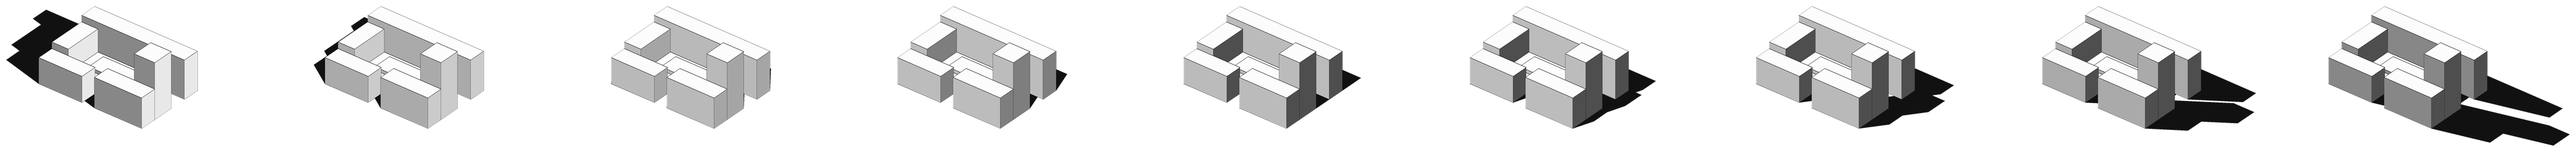
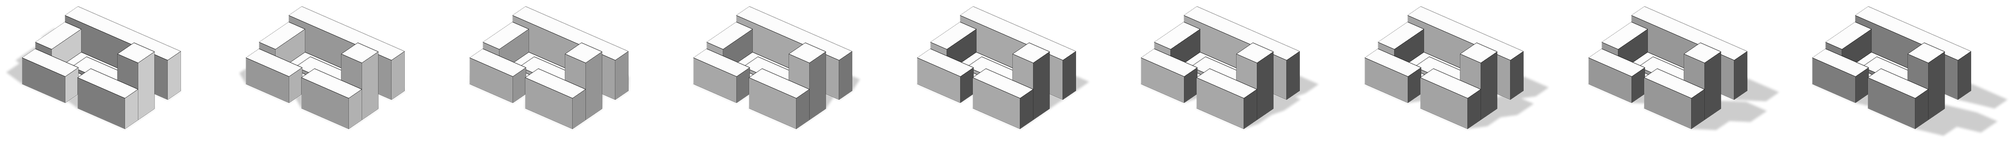
Axon grid: short soft shadows, faceted stacked pods for The Ark

Changed region(s): [[0.341, 0.119, 1.0, 0.9517], [0.0, 0.0892, 0.31, 0.8922]]

diff --git a/zh/index.html b/zh/index.html
@@ -25,42 +25,42 @@
 
 <section class="board" style="--cols:8">
   <div class="cell e"><span class="ref">A1</span></div>
-  <a class="cell p" href="798-artist-district.html"><span class="ref">B1</span><span class="lbl">798 艺术家生活集<span class="yr">2018</span></span><span class="ax" style="--fw:636;--fh:336;--ox:324.9;--oy:145.75;--ow:300.0;--oh:267.5;--n:9;background-image:url(../img/axon/798-artist-district.png)"></span><img class="sk" src="../img/798-artist-district/icon_00-s.jpg" alt="" loading="lazy"></a>
+  <a class="cell p" href="798-artist-district.html"><span class="ref">B1</span><span class="lbl">798 艺术家生活集<span class="yr">2018</span></span><span class="ax" style="--fw:380;--fh:313;--ox:209.8;--oy:145.75;--ow:300.0;--oh:267.5;--n:9;background-image:url(../img/axon/798-artist-district.png)"></span><img class="sk" src="../img/798-artist-district/icon_00-s.jpg" alt="" loading="lazy"></a>
   <div class="cell e"><span class="ref">C1</span></div>
   <div class="cell e"><span class="ref">D1</span></div>
   <div class="cell e"><span class="ref">E1</span></div>
-  <a class="cell p" href="downstairs-bazaar.html"><span class="ref">F1</span><span class="lbl">楼下生活集<span class="yr">2020</span></span><span class="ax" style="--fw:541;--fh:289;--ox:223.3;--oy:128.3;--ow:300.0;--oh:232.6;--n:9;background-image:url(../img/axon/downstairs-bazaar.png)"></span><img class="sk" src="../img/downstairs-bazaar/icon_00-s.jpg" alt="" loading="lazy"></a>
+  <a class="cell p" href="downstairs-bazaar.html"><span class="ref">F1</span><span class="lbl">楼下生活集<span class="yr">2020</span></span><span class="ax" style="--fw:423;--fh:269;--ox:191.7;--oy:128.3;--ow:300.0;--oh:232.6;--n:9;background-image:url(../img/axon/downstairs-bazaar.png)"></span><img class="sk" src="../img/downstairs-bazaar/icon_00-s.jpg" alt="" loading="lazy"></a>
   <div class="cell e"><span class="ref">G1</span></div>
   <a class="cell p t nopic" href="laminated-coliseum.html"><span class="ref">H1</span><span class="lbl">场所折叠<span class="yr">2023</span></span></a>
   <a class="cell p t nopic" href="korea-commercial-i.html"><span class="ref">A2</span><span class="lbl">韩国商业项目一<span class="yr">2022</span></span></a>
   <div class="cell e"><span class="ref">B2</span></div>
   <div class="cell e"><span class="ref">C2</span></div>
-  <a class="cell p" href="seedlings.html"><span class="ref">D2</span><span class="lbl">新绿幼儿园<span class="yr">2018</span></span><span class="ax" style="--fw:397;--fh:225;--ox:194.2;--oy:108.95;--ow:300.0;--oh:193.9;--n:9;background-image:url(../img/axon/seedlings.png)"></span><img class="sk" src="../img/seedlings/icon_00-s.jpg" alt="" loading="lazy"></a>
+  <a class="cell p" href="seedlings.html"><span class="ref">D2</span><span class="lbl">新绿幼儿园<span class="yr">2018</span></span><span class="ax" style="--fw:359;--fh:222;--ox:177.6;--oy:108.95;--ow:300.0;--oh:193.9;--n:9;background-image:url(../img/axon/seedlings.png)"></span><img class="sk" src="../img/seedlings/icon_00-s.jpg" alt="" loading="lazy"></a>
   <div class="cell e"><span class="ref">E2</span></div>
   <div class="cell e"><span class="ref">F2</span></div>
   <div class="cell e"><span class="ref">G2</span></div>
-  <a class="cell p" href="river-lantern.html"><span class="ref">H2</span><span class="lbl">河灯<span class="yr">2020</span></span><span class="ax" style="--fw:344;--fh:188;--ox:169.8;--oy:92.4;--ow:300.0;--oh:160.8;--n:9;background-image:url(../img/axon/river-lantern.png)"></span><img class="sk" src="../img/river-lantern/icon_00-s.jpg" alt="" loading="lazy"></a>
-  <a class="cell p" href="westfall-hillside-house.html"><span class="ref">A3</span><span class="lbl">西崖山地别墅<span class="yr">2025</span></span><span class="ax" style="--fw:589;--fh:316;--ox:197.1;--oy:158.0;--ow:300.0;--oh:292.0;--n:9;background-image:url(../img/axon/westfall-hillside-house.png)"></span><img class="sk" src="../img/westfall-hillside-house/icon_00-s.jpg" alt="" loading="lazy"></a>
+  <a class="cell p" href="river-lantern.html"><span class="ref">H2</span><span class="lbl">河灯<span class="yr">2020</span></span><span class="ax" style="--fw:334;--fh:186;--ox:165.8;--oy:92.4;--ow:300.0;--oh:160.8;--n:9;background-image:url(../img/axon/river-lantern.png)"></span><img class="sk" src="../img/river-lantern/icon_00-s.jpg" alt="" loading="lazy"></a>
+  <a class="cell p" href="westfall-hillside-house.html"><span class="ref">A3</span><span class="lbl">西崖山地别墅<span class="yr">2025</span></span><span class="ax" style="--fw:435;--fh:316;--ox:162.0;--oy:158.0;--ow:300.0;--oh:292.0;--n:9;background-image:url(../img/axon/westfall-hillside-house.png)"></span><img class="sk" src="../img/westfall-hillside-house/icon_00-s.jpg" alt="" loading="lazy"></a>
   <div class="cell e"><span class="ref">B3</span></div>
   <a class="cell p t nopic" href="roski-teaching-building.html"><span class="ref">C3</span><span class="lbl">南加大艺术学院教学楼<span class="yr">2021</span></span></a>
   <div class="cell e"><span class="ref">D3</span></div>
   <div class="cell e"><span class="ref">E3</span></div>
-  <a class="cell p" href="the-ark.html"><span class="ref">F3</span><span class="lbl">方舟<span class="yr">2019</span></span><span class="ax" style="--fw:523;--fh:313;--ox:261.9;--oy:139.0;--ow:300.0;--oh:254.0;--n:9;background-image:url(../img/axon/the-ark.png)"></span><img class="sk" src="../img/the-ark/icon_00-s.jpg" alt="" loading="lazy"></a>
+  <a class="cell p" href="the-ark.html"><span class="ref">F3</span><span class="lbl">方舟<span class="yr">2019</span></span><span class="ax" style="--fw:492;--fh:408;--ox:268.2;--oy:187.15;--ow:300.0;--oh:346.5;--n:9;background-image:url(../img/axon/the-ark.png)"></span><img class="sk" src="../img/the-ark/icon_00-s.jpg" alt="" loading="lazy"></a>
   <div class="cell e"><span class="ref">G3</span></div>
   <div class="cell e"><span class="ref">H3</span></div>
   <div class="cell e"><span class="ref">A4</span></div>
   <div class="cell e"><span class="ref">B4</span></div>
-  <a class="cell p" href="pku-marxism-school-building.html"><span class="ref">C4</span><span class="lbl">北京大学马克思主义学院教学楼<span class="yr">2019</span></span><span class="ax" style="--fw:858;--fh:590;--ox:354.6;--oy:276.25;--ow:300.0;--oh:511.5;--n:9;background-image:url(../img/axon/pku-marxism-school-building.png)"></span><img class="sk" src="../img/pku-teaching-building/icon_00-s.jpg" alt="" loading="lazy"></a>
+  <a class="cell p" href="pku-marxism-school-building.html"><span class="ref">C4</span><span class="lbl">北京大学马克思主义学院教学楼<span class="yr">2019</span></span><span class="ax" style="--fw:553;--fh:557;--ox:249.5;--oy:276.25;--ow:300.0;--oh:511.5;--n:9;background-image:url(../img/axon/pku-marxism-school-building.png)"></span><img class="sk" src="../img/pku-teaching-building/icon_00-s.jpg" alt="" loading="lazy"></a>
   <div class="cell e"><span class="ref">D4</span></div>
   <a class="cell p t nopic" href="san-vicente-adu.html"><span class="ref">E4</span><span class="lbl">圣维森特街 ADU<span class="yr">2024</span></span></a>
   <div class="cell e"><span class="ref">F4</span></div>
-  <a class="cell p" href="ashton-house-remodel.html"><span class="ref">G4</span><span class="lbl">阿什顿街住宅翻新<span class="yr">2025</span></span><span class="ax" style="--fw:658;--fh:328;--ox:240.8;--oy:126.55;--ow:300.0;--oh:229.1;--n:9;background-image:url(../img/axon/ashton-house-remodel.png)"></span><img class="sk" src="../img/ashton-house-remodel/icon_00-s.jpg" alt="" loading="lazy"></a>
+  <a class="cell p" href="ashton-house-remodel.html"><span class="ref">G4</span><span class="lbl">阿什顿街住宅翻新<span class="yr">2025</span></span><span class="ax" style="--fw:460;--fh:299;--ox:188.8;--oy:126.55;--ow:300.0;--oh:229.1;--n:9;background-image:url(../img/axon/ashton-house-remodel.png)"></span><img class="sk" src="../img/ashton-house-remodel/icon_00-s.jpg" alt="" loading="lazy"></a>
   <div class="cell e"><span class="ref">H4</span></div>
   <div class="cell e"><span class="ref">A5</span></div>
   <a class="cell p t nopic" href="korea-commercial-ii.html"><span class="ref">B5</span><span class="lbl">韩国商业项目二<span class="yr">2022</span></span></a>
   <div class="cell e"><span class="ref">C5</span></div>
   <div class="cell e"><span class="ref">D5</span></div>
-  <a class="cell p" href="beck-corner-apartment.html"><span class="ref">E5</span><span class="lbl">贝克街保障住房<span class="yr">2023–2025</span></span><span class="ax" style="--fw:597;--fh:350;--ox:247.2;--oy:152.35;--ow:300.0;--oh:280.7;--n:9;background-image:url(../img/axon/beck-corner-apartment.png)"></span><img class="sk" src="../img/beck-corner-apartment/icon_00-s.jpg" alt="" loading="lazy"></a>
+  <a class="cell p" href="beck-corner-apartment.html"><span class="ref">E5</span><span class="lbl">贝克街保障住房<span class="yr">2023–2025</span></span><span class="ax" style="--fw:456;--fh:327;--ox:203.3;--oy:152.35;--ow:300.0;--oh:280.7;--n:9;background-image:url(../img/axon/beck-corner-apartment.png)"></span><img class="sk" src="../img/beck-corner-apartment/icon_00-s.jpg" alt="" loading="lazy"></a>
   <div class="cell e"><span class="ref">F5</span></div>
   <div class="cell e"><span class="ref">G5</span></div>
   <a class="cell p t nopic" href="chadron-adu.html"><span class="ref">H5</span><span class="lbl">查德龙街多单元 ADU<span class="yr">2025</span></span></a>

diff --git a/index.html b/index.html
@@ -25,42 +25,42 @@
 
 <section class="board" style="--cols:8">
   <div class="cell e"><span class="ref">A1</span></div>
-  <a class="cell p" href="798-artist-district.html"><span class="ref">B1</span><span class="lbl">The Collage Community<span class="yr">2018</span></span><span class="ax" style="--fw:636;--fh:336;--ox:324.9;--oy:145.75;--ow:300.0;--oh:267.5;--n:9;background-image:url(img/axon/798-artist-district.png)"></span><img class="sk" src="img/798-artist-district/icon_00-s.jpg" alt="" loading="lazy"></a>
+  <a class="cell p" href="798-artist-district.html"><span class="ref">B1</span><span class="lbl">The Collage Community<span class="yr">2018</span></span><span class="ax" style="--fw:380;--fh:313;--ox:209.8;--oy:145.75;--ow:300.0;--oh:267.5;--n:9;background-image:url(img/axon/798-artist-district.png)"></span><img class="sk" src="img/798-artist-district/icon_00-s.jpg" alt="" loading="lazy"></a>
   <div class="cell e"><span class="ref">C1</span></div>
   <div class="cell e"><span class="ref">D1</span></div>
   <div class="cell e"><span class="ref">E1</span></div>
-  <a class="cell p" href="downstairs-bazaar.html"><span class="ref">F1</span><span class="lbl">Downstairs Bazaar<span class="yr">2020</span></span><span class="ax" style="--fw:541;--fh:289;--ox:223.3;--oy:128.3;--ow:300.0;--oh:232.6;--n:9;background-image:url(img/axon/downstairs-bazaar.png)"></span><img class="sk" src="img/downstairs-bazaar/icon_00-s.jpg" alt="" loading="lazy"></a>
+  <a class="cell p" href="downstairs-bazaar.html"><span class="ref">F1</span><span class="lbl">Downstairs Bazaar<span class="yr">2020</span></span><span class="ax" style="--fw:423;--fh:269;--ox:191.7;--oy:128.3;--ow:300.0;--oh:232.6;--n:9;background-image:url(img/axon/downstairs-bazaar.png)"></span><img class="sk" src="img/downstairs-bazaar/icon_00-s.jpg" alt="" loading="lazy"></a>
   <div class="cell e"><span class="ref">G1</span></div>
   <a class="cell p t nopic" href="laminated-coliseum.html"><span class="ref">H1</span><span class="lbl">Laminated Coliseum<span class="yr">2023</span></span></a>
   <a class="cell p t nopic" href="korea-commercial-i.html"><span class="ref">A2</span><span class="lbl">Korea Commercial Project I<span class="yr">2022</span></span></a>
   <div class="cell e"><span class="ref">B2</span></div>
   <div class="cell e"><span class="ref">C2</span></div>
-  <a class="cell p" href="seedlings.html"><span class="ref">D2</span><span class="lbl">Seedlings<span class="yr">2018</span></span><span class="ax" style="--fw:397;--fh:225;--ox:194.2;--oy:108.95;--ow:300.0;--oh:193.9;--n:9;background-image:url(img/axon/seedlings.png)"></span><img class="sk" src="img/seedlings/icon_00-s.jpg" alt="" loading="lazy"></a>
+  <a class="cell p" href="seedlings.html"><span class="ref">D2</span><span class="lbl">Seedlings<span class="yr">2018</span></span><span class="ax" style="--fw:359;--fh:222;--ox:177.6;--oy:108.95;--ow:300.0;--oh:193.9;--n:9;background-image:url(img/axon/seedlings.png)"></span><img class="sk" src="img/seedlings/icon_00-s.jpg" alt="" loading="lazy"></a>
   <div class="cell e"><span class="ref">E2</span></div>
   <div class="cell e"><span class="ref">F2</span></div>
   <div class="cell e"><span class="ref">G2</span></div>
-  <a class="cell p" href="river-lantern.html"><span class="ref">H2</span><span class="lbl">River Lantern<span class="yr">2020</span></span><span class="ax" style="--fw:344;--fh:188;--ox:169.8;--oy:92.4;--ow:300.0;--oh:160.8;--n:9;background-image:url(img/axon/river-lantern.png)"></span><img class="sk" src="img/river-lantern/icon_00-s.jpg" alt="" loading="lazy"></a>
-  <a class="cell p" href="westfall-hillside-house.html"><span class="ref">A3</span><span class="lbl">Westfall Hillside House<span class="yr">2025</span></span><span class="ax" style="--fw:589;--fh:316;--ox:197.1;--oy:158.0;--ow:300.0;--oh:292.0;--n:9;background-image:url(img/axon/westfall-hillside-house.png)"></span><img class="sk" src="img/westfall-hillside-house/icon_00-s.jpg" alt="" loading="lazy"></a>
+  <a class="cell p" href="river-lantern.html"><span class="ref">H2</span><span class="lbl">River Lantern<span class="yr">2020</span></span><span class="ax" style="--fw:334;--fh:186;--ox:165.8;--oy:92.4;--ow:300.0;--oh:160.8;--n:9;background-image:url(img/axon/river-lantern.png)"></span><img class="sk" src="img/river-lantern/icon_00-s.jpg" alt="" loading="lazy"></a>
+  <a class="cell p" href="westfall-hillside-house.html"><span class="ref">A3</span><span class="lbl">Westfall Hillside House<span class="yr">2025</span></span><span class="ax" style="--fw:435;--fh:316;--ox:162.0;--oy:158.0;--ow:300.0;--oh:292.0;--n:9;background-image:url(img/axon/westfall-hillside-house.png)"></span><img class="sk" src="img/westfall-hillside-house/icon_00-s.jpg" alt="" loading="lazy"></a>
   <div class="cell e"><span class="ref">B3</span></div>
   <a class="cell p t nopic" href="roski-teaching-building.html"><span class="ref">C3</span><span class="lbl">Roski School of Art, USC<span class="yr">2021</span></span></a>
   <div class="cell e"><span class="ref">D3</span></div>
   <div class="cell e"><span class="ref">E3</span></div>
-  <a class="cell p" href="the-ark.html"><span class="ref">F3</span><span class="lbl">The Ark<span class="yr">2019</span></span><span class="ax" style="--fw:523;--fh:313;--ox:261.9;--oy:139.0;--ow:300.0;--oh:254.0;--n:9;background-image:url(img/axon/the-ark.png)"></span><img class="sk" src="img/the-ark/icon_00-s.jpg" alt="" loading="lazy"></a>
+  <a class="cell p" href="the-ark.html"><span class="ref">F3</span><span class="lbl">The Ark<span class="yr">2019</span></span><span class="ax" style="--fw:492;--fh:408;--ox:268.2;--oy:187.15;--ow:300.0;--oh:346.5;--n:9;background-image:url(img/axon/the-ark.png)"></span><img class="sk" src="img/the-ark/icon_00-s.jpg" alt="" loading="lazy"></a>
   <div class="cell e"><span class="ref">G3</span></div>
   <div class="cell e"><span class="ref">H3</span></div>
   <div class="cell e"><span class="ref">A4</span></div>
   <div class="cell e"><span class="ref">B4</span></div>
-  <a class="cell p" href="pku-marxism-school-building.html"><span class="ref">C4</span><span class="lbl">Marxism School Building, PKU<span class="yr">2019</span></span><span class="ax" style="--fw:858;--fh:590;--ox:354.6;--oy:276.25;--ow:300.0;--oh:511.5;--n:9;background-image:url(img/axon/pku-marxism-school-building.png)"></span><img class="sk" src="img/pku-teaching-building/icon_00-s.jpg" alt="" loading="lazy"></a>
+  <a class="cell p" href="pku-marxism-school-building.html"><span class="ref">C4</span><span class="lbl">Marxism School Building, PKU<span class="yr">2019</span></span><span class="ax" style="--fw:553;--fh:557;--ox:249.5;--oy:276.25;--ow:300.0;--oh:511.5;--n:9;background-image:url(img/axon/pku-marxism-school-building.png)"></span><img class="sk" src="img/pku-teaching-building/icon_00-s.jpg" alt="" loading="lazy"></a>
   <div class="cell e"><span class="ref">D4</span></div>
   <a class="cell p t nopic" href="san-vicente-adu.html"><span class="ref">E4</span><span class="lbl">San Vicente ADU<span class="yr">2024</span></span></a>
   <div class="cell e"><span class="ref">F4</span></div>
-  <a class="cell p" href="ashton-house-remodel.html"><span class="ref">G4</span><span class="lbl">Ashton House Remodel<span class="yr">2025</span></span><span class="ax" style="--fw:658;--fh:328;--ox:240.8;--oy:126.55;--ow:300.0;--oh:229.1;--n:9;background-image:url(img/axon/ashton-house-remodel.png)"></span><img class="sk" src="img/ashton-house-remodel/icon_00-s.jpg" alt="" loading="lazy"></a>
+  <a class="cell p" href="ashton-house-remodel.html"><span class="ref">G4</span><span class="lbl">Ashton House Remodel<span class="yr">2025</span></span><span class="ax" style="--fw:460;--fh:299;--ox:188.8;--oy:126.55;--ow:300.0;--oh:229.1;--n:9;background-image:url(img/axon/ashton-house-remodel.png)"></span><img class="sk" src="img/ashton-house-remodel/icon_00-s.jpg" alt="" loading="lazy"></a>
   <div class="cell e"><span class="ref">H4</span></div>
   <div class="cell e"><span class="ref">A5</span></div>
   <a class="cell p t nopic" href="korea-commercial-ii.html"><span class="ref">B5</span><span class="lbl">Korea Commercial Project II<span class="yr">2022</span></span></a>
   <div class="cell e"><span class="ref">C5</span></div>
   <div class="cell e"><span class="ref">D5</span></div>
-  <a class="cell p" href="beck-corner-apartment.html"><span class="ref">E5</span><span class="lbl">Beck Corner Apartment<span class="yr">2023–2025</span></span><span class="ax" style="--fw:597;--fh:350;--ox:247.2;--oy:152.35;--ow:300.0;--oh:280.7;--n:9;background-image:url(img/axon/beck-corner-apartment.png)"></span><img class="sk" src="img/beck-corner-apartment/icon_00-s.jpg" alt="" loading="lazy"></a>
+  <a class="cell p" href="beck-corner-apartment.html"><span class="ref">E5</span><span class="lbl">Beck Corner Apartment<span class="yr">2023–2025</span></span><span class="ax" style="--fw:456;--fh:327;--ox:203.3;--oy:152.35;--ow:300.0;--oh:280.7;--n:9;background-image:url(img/axon/beck-corner-apartment.png)"></span><img class="sk" src="img/beck-corner-apartment/icon_00-s.jpg" alt="" loading="lazy"></a>
   <div class="cell e"><span class="ref">F5</span></div>
   <div class="cell e"><span class="ref">G5</span></div>
   <a class="cell p t nopic" href="chadron-adu.html"><span class="ref">H5</span><span class="lbl">Chadron Multi-Unit ADU<span class="yr">2025</span></span></a>

diff --git a/src/axon.py b/src/axon.py
@@ -5,7 +5,7 @@ Each project = a few simple volumes eyeballed from its renders. Output:
 Usage:  python src/axon.py            (needs numpy, scipy, Pillow)"""
 import math, os, json
 import numpy as np
-from PIL import Image, ImageDraw
+from PIL import Image, ImageDraw, ImageFilter
 from scipy.spatial import ConvexHull
 
 FRAMES = 9
@@ -64,12 +64,14 @@ class Model:
             self.face([P(ri, a1, z0), P(ro, a1, z0), P(ro, a1, z1), P(ri, a1, z1)], e)
         return self
     def hull(self, pts):
-        pts = np.array(pts, float); h = ConvexHull(pts); c = pts.mean(0)
+        pts = np.array(pts, float); h = ConvexHull(pts); planes = {}
         for s, eq in zip(h.simplices, h.equations):
             tri = pts[s]
             n = np.cross(tri[1] - tri[0], tri[2] - tri[0])
             if n @ eq[:3] < 0: tri = tri[::-1]
-            self.face(tri, self.newg())
+            key = tuple(np.round(eq, 3))
+            if key not in planes: planes[key] = self.newg()
+            self.face(tri, planes[key])
         return self
     def vaults(self, x0, x1, y0, y1, z, n, rise, segs=16):
         """n barrel vaults side by side along x, each running in y"""
@@ -167,13 +169,22 @@ def M_lantern():
     for (x, y) in ((-19, -9), (19, -10), (-21, 8), (20, 9), (2, -12)):
         m.box(x - .6, y - .6, x + .6, y + .6, 0, 1.1)
     return m
+def pod(m, cx, cy, z0, w, h, rot, rng):
+    """one low-poly pod: a faceted, slightly irregular stone shape (The Ark's cells)"""
+    pts = []
+    for zf, rf, n, a0 in ((0, .62, 3, .4), (.4, 1, 5, 0), (.8, .62, 4, .3), (1, .15, 2, .9)):
+        for i in range(n):
+            a = rot + a0 + 2 * math.pi * i / n + rng.uniform(-.18, .18)
+            r = w / 2 * rf * rng.uniform(.9, 1.08)
+            pts.append((cx + r * math.cos(a), cy + r * math.sin(a), z0 + h * zf + rng.uniform(-.04, .04) * h))
+    m.hull(pts)
 def M_ark():
-    m = Model(); rng = np.random.default_rng(7)
-    for (cx, cy, s) in ((0, 0, 9), (10, 6, 6.5), (-8, 9, 5), (7, -9, 4)):
-        pts = rng.normal(size=(14, 3)); pts /= np.linalg.norm(pts, axis=1)[:, None]
-        pts *= s * np.array([1, 1, .85]); pts[:, 2] += s * .7
-        pts[:, 2] = np.maximum(pts[:, 2], 0); pts[:, 0] += cx; pts[:, 1] += cy
-        m.hull(pts)
+    m = Model(); rng = np.random.default_rng(11)
+    pod(m, 0, 0, 0, 7.5, 10, 0, rng)           # 三颗叠起来的主塔，竖向的石块
+    pod(m, 1, -.5, 9.6, 6, 7.6, .5, rng)
+    pod(m, .3, .4, 16.8, 4, 5.2, 1.1, rng)
+    pod(m, 11, 4.5, 0, 5, 6.4, .8, rng)        # 旁边两颗单独的
+    pod(m, -9, 7, 0, 3.6, 4.6, .2, rng)
     return m
 
 PROJECTS = {'798-artist-district': M_798, 'seedlings': M_seedlings, 'downstairs-bazaar': M_bazaar,
@@ -183,7 +194,7 @@ PROJECTS = {'798-artist-district': M_798, 'seedlings': M_seedlings, 'downstairs-
 # ── rendering ──
 def sun(t):
     az = math.radians(-15 - 150 * t)          # east-southeast -> west-southwest
-    el = math.radians(30 + 28 * math.sin(math.pi * t))
+    el = math.radians(50 + 16 * math.sin(math.pi * t))   # 太阳高，影子短
     return np.array([math.cos(az) * math.cos(el), math.sin(az) * math.cos(el), math.sin(el)])
 
 def normal(P):
@@ -250,10 +261,11 @@ def render(m, L, lo, hi, OW):
         e |= (a != b) | ((np.abs(za - zb2) > 3 / s * 6) & solid)
     e = np.maximum(e, np.roll(e, 1, 0)) if SS >= 3 else e
     out = np.zeros((H, WW, 4), np.uint8)
-    sh = np.array(shad) > 0
-    out[sh] = (17, 17, 17, 255)
+    sa = np.array(shad.filter(ImageFilter.GaussianBlur(2.2 * SS)), float) / 255   # 影子：浅、软
+    sh = sa > .02
+    out[sh, 0:3] = 17; out[sh, 3] = (sa[sh] * 54).astype(np.uint8)
     out[solid, 0:3] = col[solid, None].astype(np.uint8); out[solid, 3] = 255
-    out[e & (solid | sh)] = (17, 17, 17, 255)
+    out[e & solid] = (17, 17, 17, 255)
     im = Image.fromarray(out, 'RGBA').resize((W, round(H / SS)), Image.LANCZOS)
     im.info['obj'] = [(olo[0] - lo[0]) * s / SS, (olo[1] - lo[1]) * s / SS, (ohi[0] - olo[0]) * s / SS, (ohi[1] - olo[1]) * s / SS]
     return im
